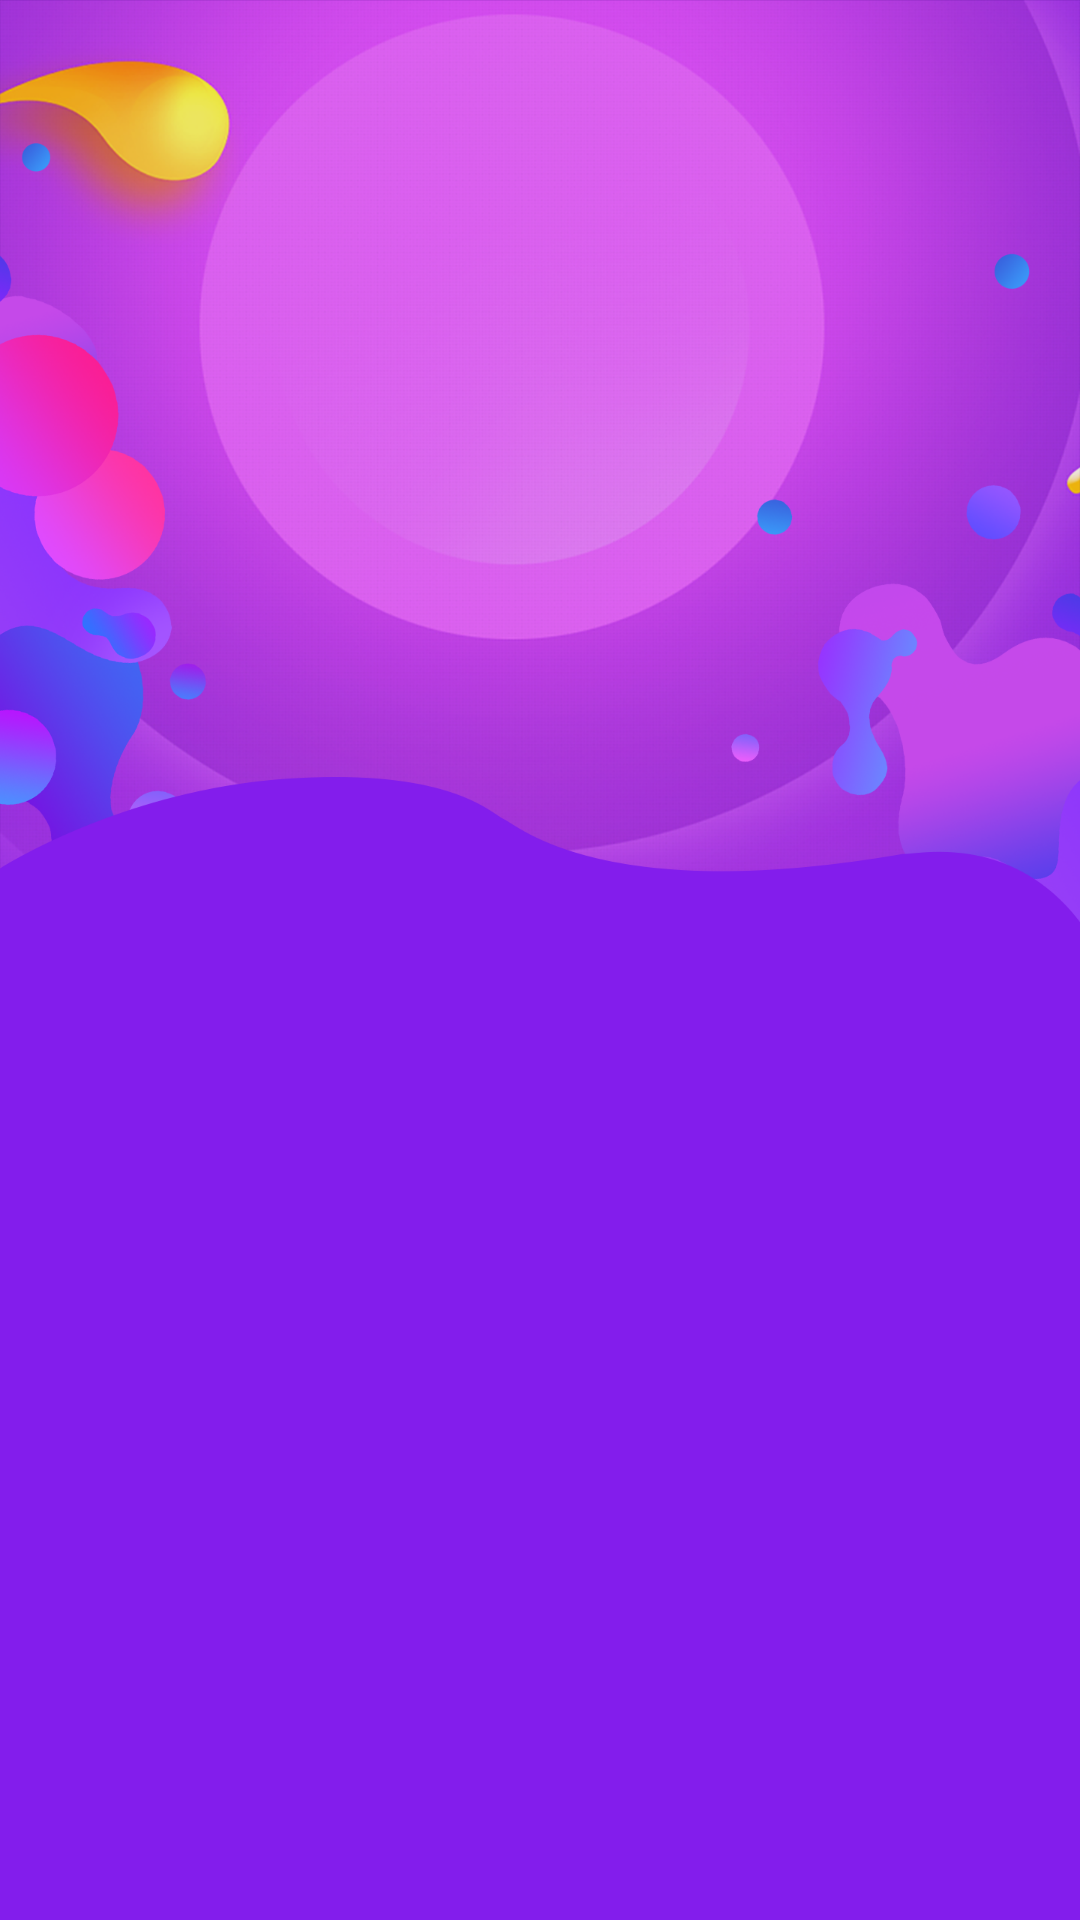
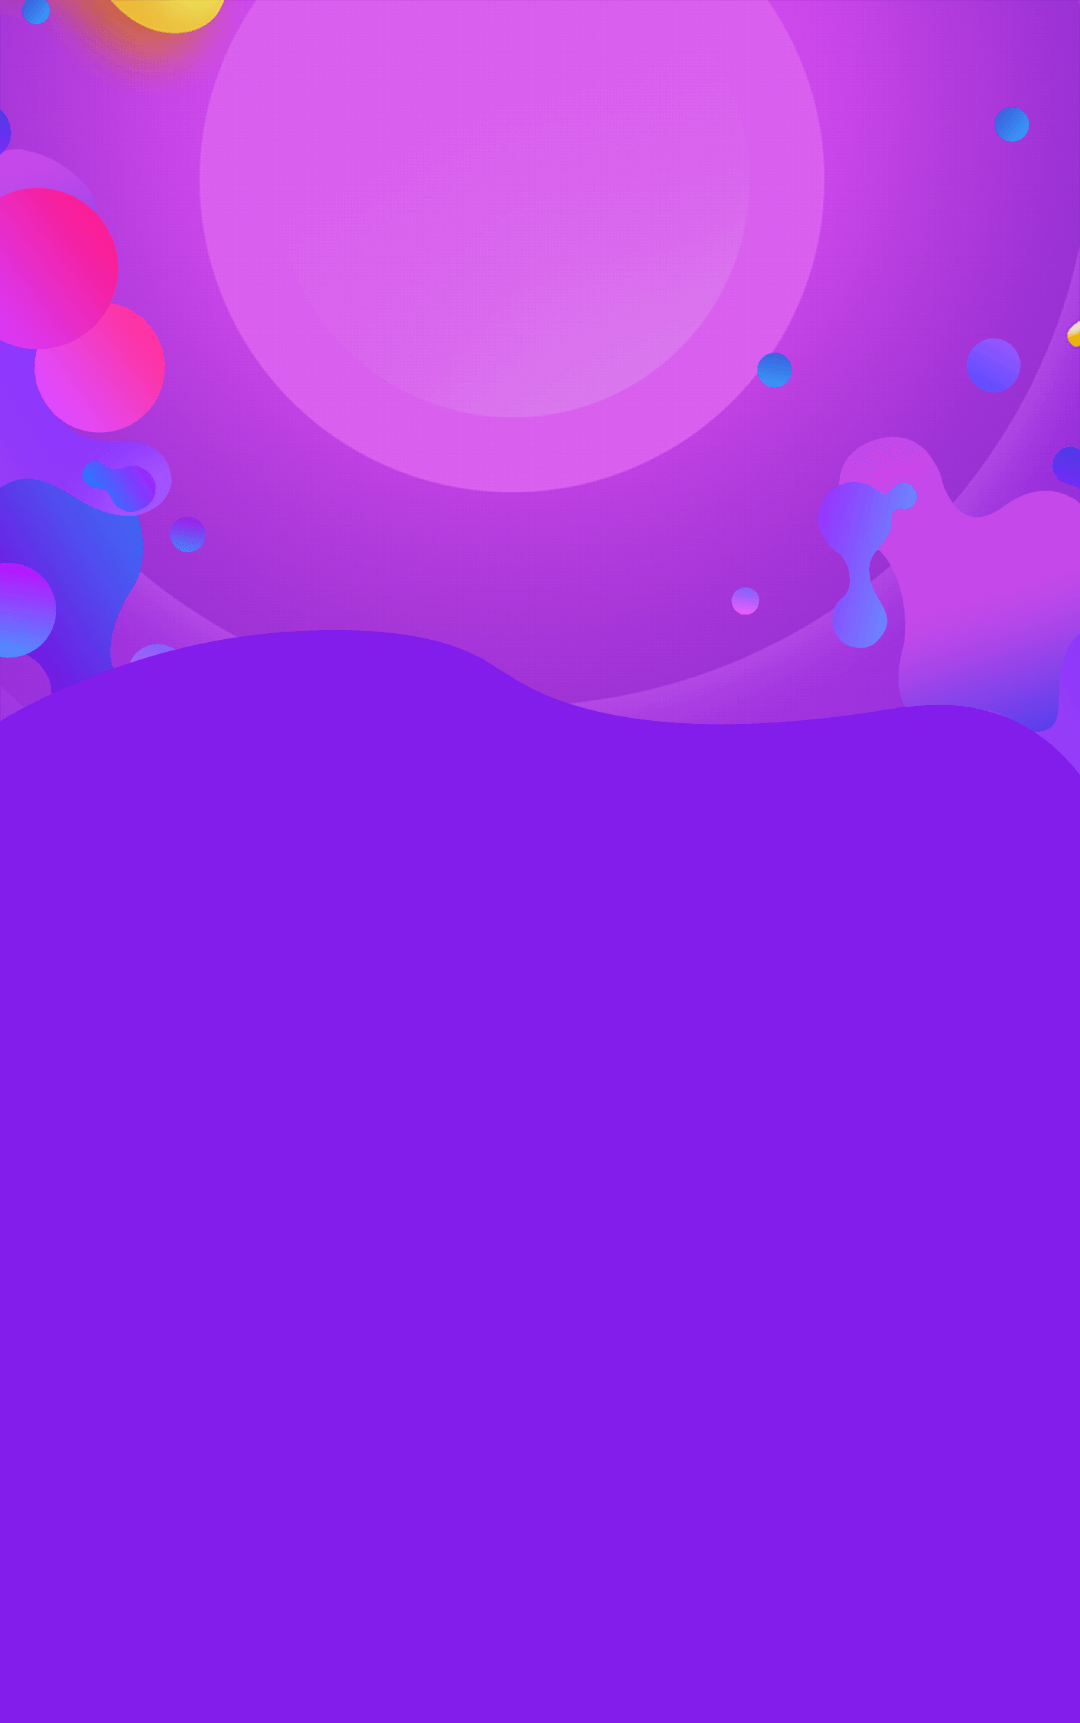
add jump

diff --git a/taskjumpalipay.html b/taskjumpalipay.html
@@ -9,7 +9,7 @@
     <meta http-equiv="Pragma" content="no-cache">
     <meta http-equiv="Cache-control" content="no-cache">
     <meta http-equiv="Cache" content="no-cache">
-    <title>邀请再加码</title>
+    <title>支付宝红包</title>
     <script>
         (function (doc, win) {
             var docEl = doc.documentElement,//设备宽度
@@ -110,31 +110,12 @@
             font-size: 100px;
         }
     }
-    *{
-        -webkit-tap-highlight-color: rgba(0, 0, 0, 0);
-    }
-    html{
-        -webkit-text-size-adjust: 100%;
-        -ms-text-size-adjust: 100%;
-        /* 解决IOS默认滑动很卡的情况 */
-        -webkit-overflow-scrolling : touch;
-        -webkit-touch-callout:none;
-    }
-    input[type="submit"], input[type="reset"], input[type="button"], input {
-        resize: none;
-        border: none;
-    }
-    input,
-    button {
-        -webkit-appearance: none;
-        border-radius: 0;
-    }
+
     body {
-        overflow: hidden;
         font-size: 14px;
         margin: 0;
         padding: 0;
-        background: #ca47e8 url("./img/bj2.png") left top no-repeat;
+        background: #811eeb url("./img/bj2.png") left top no-repeat;
         background-size: 100%;
     }
 
@@ -152,36 +133,18 @@
     .container div {
         margin: 0 auto;
     }
-
     .container .bonus {
-        margin-top: 0.37rem;
-        width: 5.97rem;
-        height: 3.56rem;
-        margin-left: 0.94rem;
-        margin-right: 0.60rem;
-        background: url("./img/bonus.png") no-repeat;
+        margin-top: 1.18rem;
+        width: 6.67rem;
+        height: 4.32rem;
+        background: url("./img/bonusalipay.png") no-repeat;
         background-size: contain;
     }
-
-    .container .activity-time {
-        text-align: center;
-        width: 4.17rem;
-        height: 0.51rem;
-        line-height: 0.51rem;
-        background: rgba(60, 0, 122, 1);
-        border-radius: 0.25rem;
-
-        margin-top: 0.63rem;
-        font-size: 0.25rem;
-        font-weight: 300;
-        color: rgba(253, 250, 255, 1);
-    }
-
     .container .activity-rule {
         text-align: center;
         margin-top: 0.38rem;
         width: 6.67rem;
-        height: 4.00rem;
+        height: 3.00rem;
         padding-top: 0.35rem;
         -webkit-box-sizing: border-box;
         box-sizing: border-box;
@@ -243,7 +206,7 @@
 
     .container .wx-btn {
         margin-top: 0.57rem;
-        /*margin-bottom: 1.05rem;*/
+        margin-bottom: 1.05rem;
         width: 5.28rem;
         height: 0.90rem;
         line-height: 0.90rem;
@@ -260,19 +223,16 @@
 
 <body>
     <div class="container">
-        <div class="bonus"></div>
-        <div class="activity-time">
-            活动时间：即日起 - 2018.12.15
-        </div>
-        <div class="activity-rule">
-            <div class="title">奖励规则</div>
+			<div class="bonus"></div>
+            <div class="activity-rule">
+            <div class="title">支付宝红包免费领</div>
             <ol class="rule">
-                <li>奖励要求：活动期间，收徒>15人，且每个徒弟贡献超过5万金币，即可在收徒10元奖励基础上，额外获得3元现金/人。</li>
-                <li>奖金发放方式：活动结束后3日内，请直接联系客服微信领取现金奖励。</li>
-                <li>若被发现有作弊行为，平台有权取消奖励。</li>
+                <li>点击复制支付宝搜索码并前往支付宝</li>
+                <li>点击搜索框，粘贴【搜索码】搜索</li>
+				<li>选择【天天领红包】，最高可领99元！</li>
             </ol>
         </div>
-        <div class="wx-btn" id="copyCode" data-clipboard-action="copy" data-clipboard-target="span">复制客服微信:<span id="code">better0168</span></div>
+        <div class="wx-btn" id="copyCode" data-clipboard-action="copy" data-clipboard-target="span">点击复制搜索码:<span id="code">4210100</span></div>
     </div>
 
     <script>
@@ -299,7 +259,7 @@
         clipboard.on('success', function (e) {
             console.log(e.text);
             showToast("复制成功,邀请码为：" + e.text);
-            window.location.href="weixin://";
+            window.location.href="alipays://platformapi/startapp?appId=20001003&launchSource=navbar&actionSrc=hometab";
         });
         clipboard.on('error', function (e) {
             console.log(e);
@@ -326,10 +286,14 @@
             if(isiOS&&flag){
                 console.log(code.innerText);
                 window.webkit.messageHandlers.copyText && window.webkit.messageHandlers.copyText.postMessage(code.innerText);
-                window.webkit.messageHandlers.jump && window.webkit.messageHandlers.jump.postMessage(jumpUrl.weixin.home);
+                window.webkit.messageHandlers.jump && window.webkit.messageHandlers.jump.postMessage(jumpUrl.alipay.home);
             }
         })
+
     </script>
+	<div style="display:none"> 
+	<script src="https://s96.cnzz.com/z_stat.php?id=1275554278&web_id=1275554278" language="JavaScript"></script>
+	</div>
 </body>
 
 </html>

diff --git a/taskjumpwechat.html b/taskjumpwechat.html
@@ -110,31 +110,12 @@
             font-size: 100px;
         }
     }
-    *{
-        -webkit-tap-highlight-color: rgba(0, 0, 0, 0);
-    }
-    html{
-        -webkit-text-size-adjust: 100%;
-        -ms-text-size-adjust: 100%;
-        /* 解决IOS默认滑动很卡的情况 */
-        -webkit-overflow-scrolling : touch;
-        -webkit-touch-callout:none;
-    }
-    input[type="submit"], input[type="reset"], input[type="button"], input {
-        resize: none;
-        border: none;
-    }
-    input,
-    button {
-        -webkit-appearance: none;
-        border-radius: 0;
-    }
+
     body {
-        overflow: hidden;
         font-size: 14px;
         margin: 0;
         padding: 0;
-        background: #ca47e8 url("./img/bj2.png") left top no-repeat;
+        background: #811eeb url("./img/bj2.png") left top no-repeat;
         background-size: 100%;
     }
 
@@ -153,29 +134,8 @@
         margin: 0 auto;
     }
 
-    .container .bonus {
-        margin-top: 0.37rem;
-        width: 5.97rem;
-        height: 3.56rem;
-        margin-left: 0.94rem;
-        margin-right: 0.60rem;
-        background: url("./img/bonus.png") no-repeat;
-        background-size: contain;
-    }
 
-    .container .activity-time {
-        text-align: center;
-        width: 4.17rem;
-        height: 0.51rem;
-        line-height: 0.51rem;
-        background: rgba(60, 0, 122, 1);
-        border-radius: 0.25rem;
 
-        margin-top: 0.63rem;
-        font-size: 0.25rem;
-        font-weight: 300;
-        color: rgba(253, 250, 255, 1);
-    }
 
     .container .activity-rule {
         text-align: center;
@@ -243,7 +203,7 @@
 
     .container .wx-btn {
         margin-top: 0.57rem;
-        /*margin-bottom: 1.05rem;*/
+        margin-bottom: 1.05rem;
         width: 5.28rem;
         height: 0.90rem;
         line-height: 0.90rem;
@@ -259,20 +219,17 @@
 </style>
 
 <body>
+
     <div class="container">
-        <div class="bonus"></div>
-        <div class="activity-time">
-            活动时间：即日起 - 2018.12.15
-        </div>
-        <div class="activity-rule">
-            <div class="title">奖励规则</div>
+            <div class="activity-rule">
+            <div class="title">小任务大红包</div>
             <ol class="rule">
-                <li>奖励要求：活动期间，收徒>15人，且每个徒弟贡献超过5万金币，即可在收徒10元奖励基础上，额外获得3元现金/人。</li>
-                <li>奖金发放方式：活动结束后3日内，请直接联系客服微信领取现金奖励。</li>
-                <li>若被发现有作弊行为，平台有权取消奖励。</li>
+                <li>加客服微信：shuo0168</li>
+                <li>发送“任务”领取小任务</li>
+                <li>完成后即可得3000~10000金币</li>
             </ol>
         </div>
-        <div class="wx-btn" id="copyCode" data-clipboard-action="copy" data-clipboard-target="span">复制客服微信:<span id="code">better0168</span></div>
+        <div class="wx-btn" id="copyCode" data-clipboard-action="copy" data-clipboard-target="span">点击复制微信:<span id="code">shuo0168</span></div>
     </div>
 
     <script>
@@ -329,7 +286,10 @@
                 window.webkit.messageHandlers.jump && window.webkit.messageHandlers.jump.postMessage(jumpUrl.weixin.home);
             }
         })
-    </script>
+	</script>
+	<div style="display:none"> 
+	<script src="https://s96.cnzz.com/z_stat.php?id=1275554278&web_id=1275554278" language="JavaScript"></script>
+	</div>
 </body>
 
 </html>
